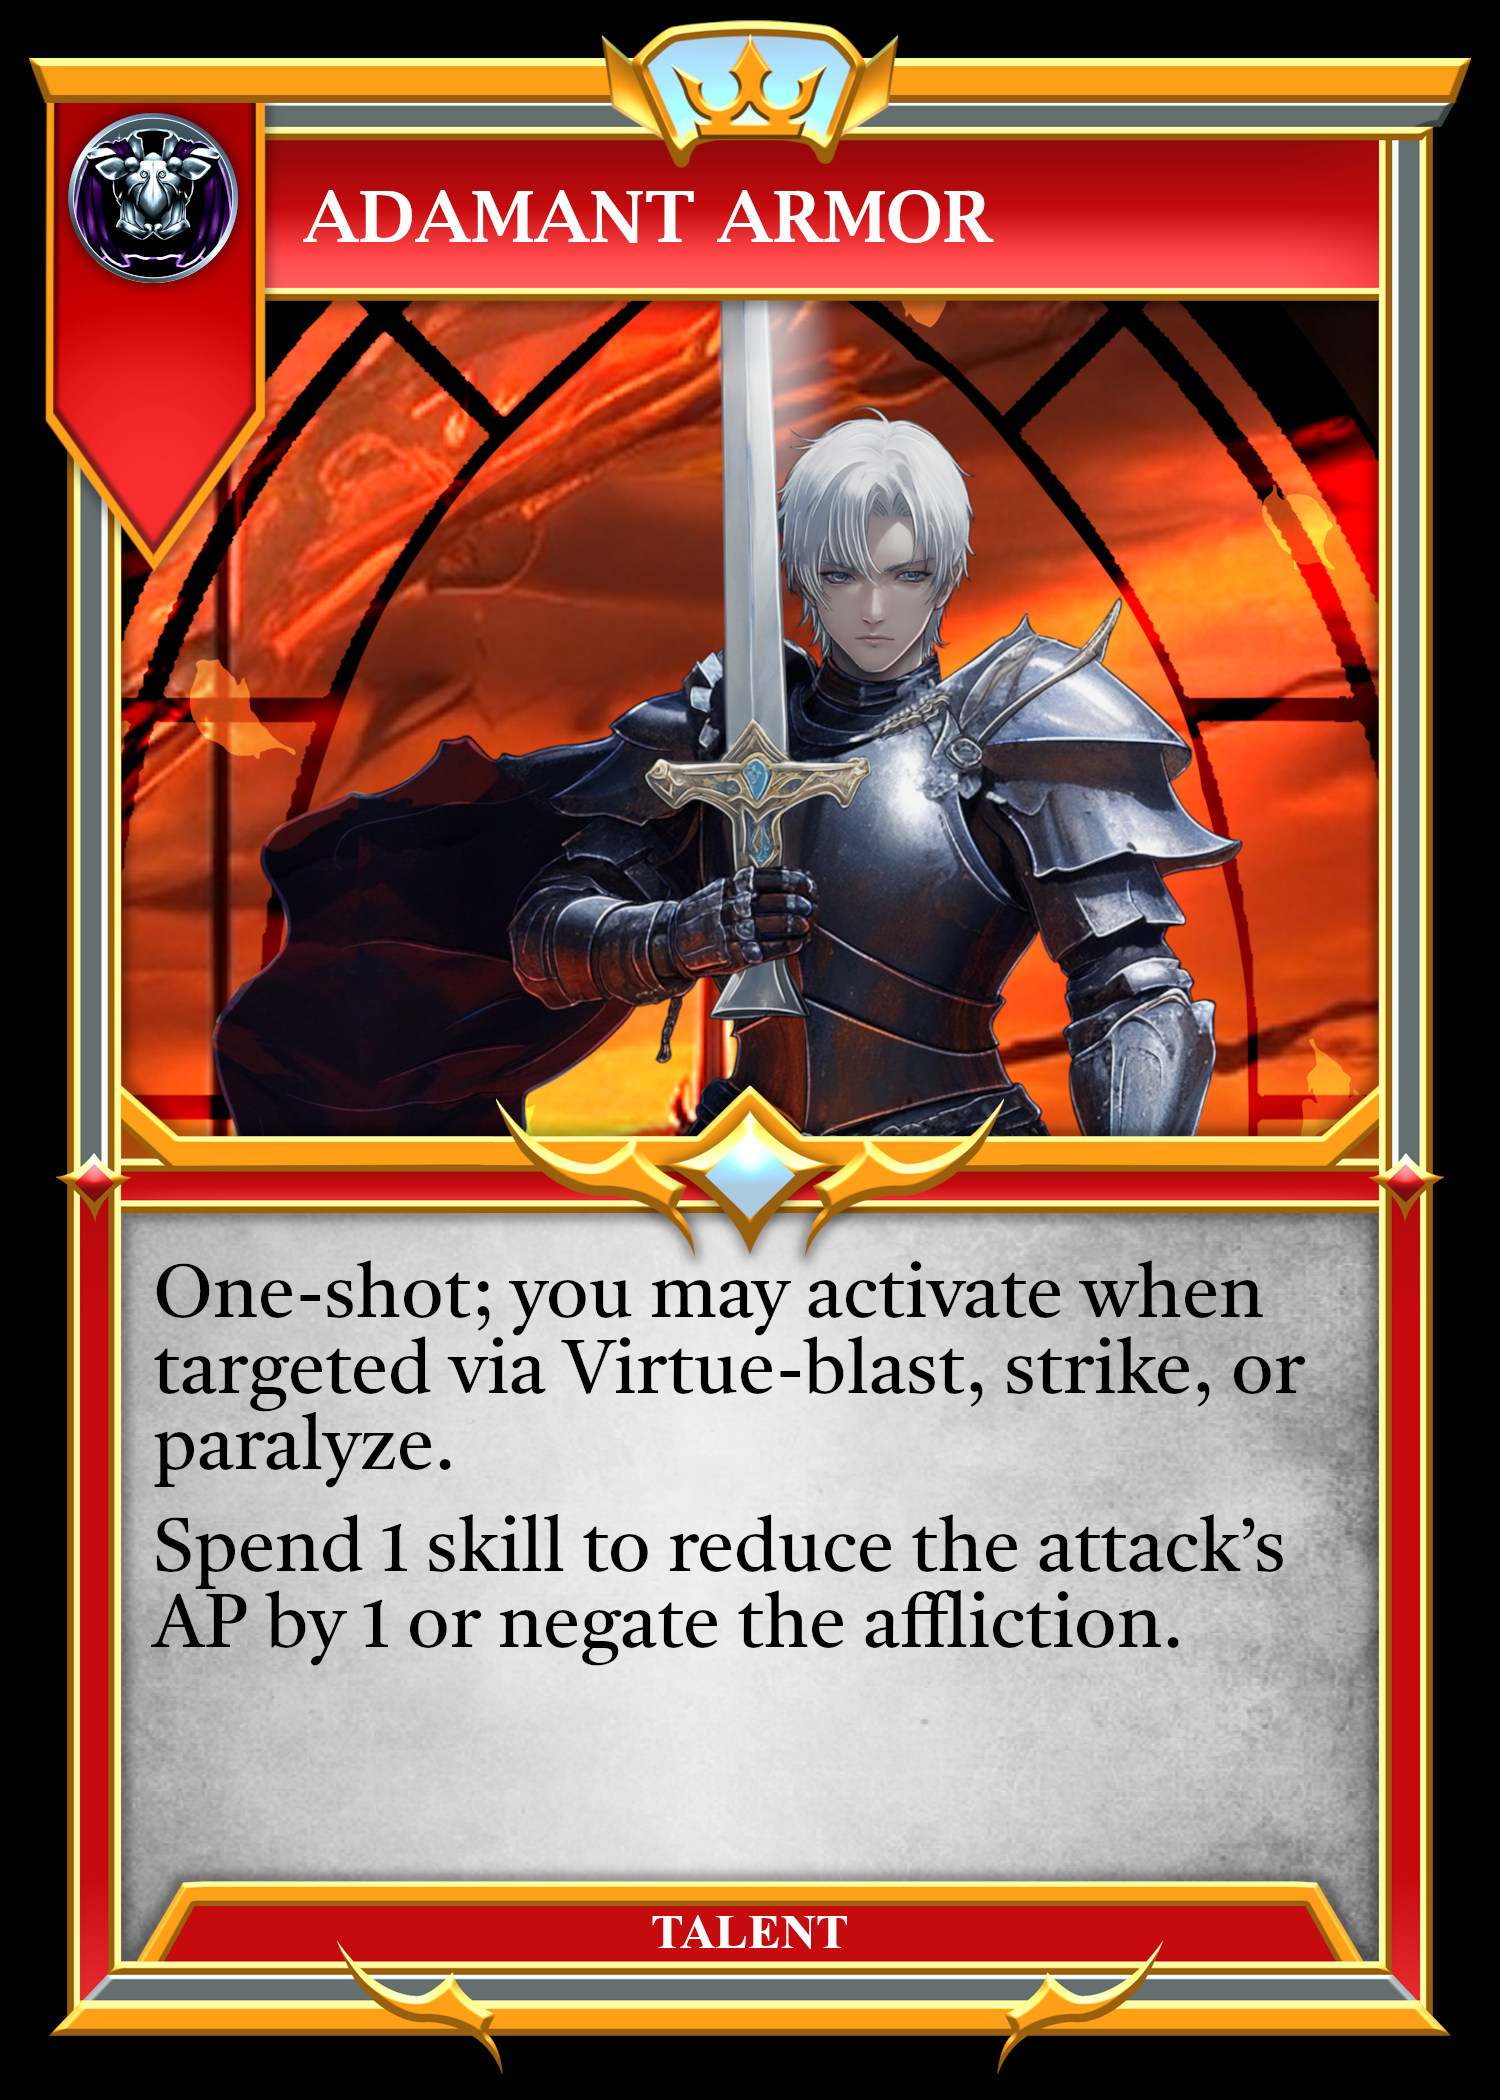
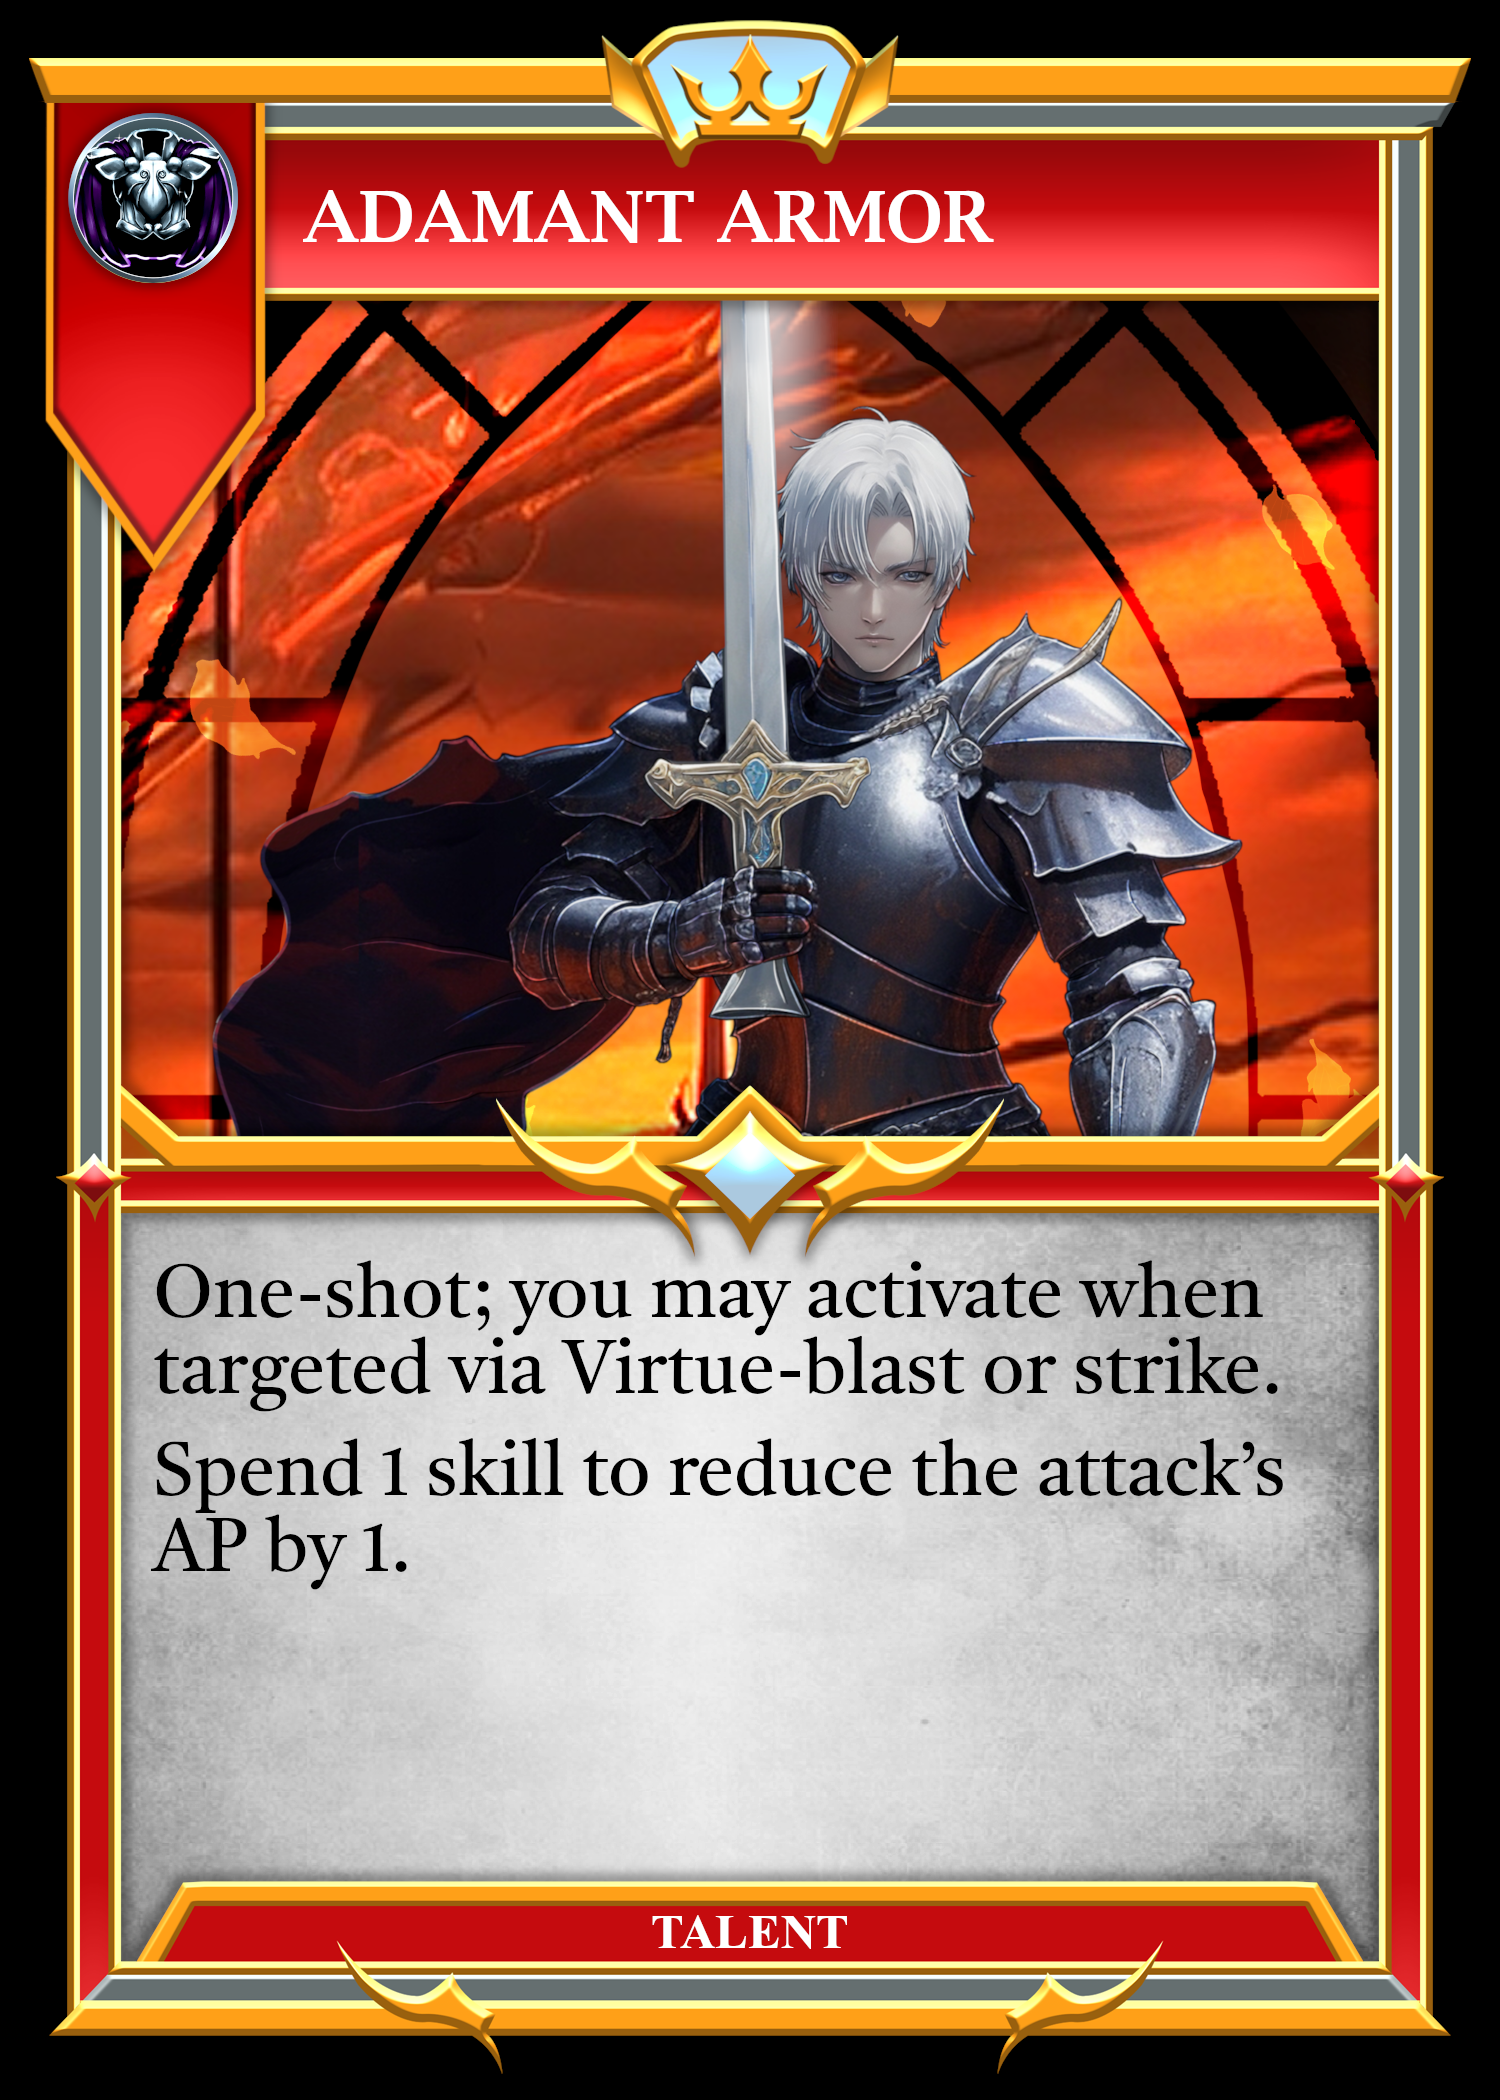
Adamant armor no longer blocks paralysis

Changed region(s): [[0.092, 0.619, 0.8587, 0.8048]]

diff --git a/src/hooks/useRecurringEffects.jsx b/src/hooks/useRecurringEffects.jsx
@@ -2316,9 +2316,8 @@ export const useRecurringEffects = () => {
     }
 
     switch (true) {
-      case victim.enhancements.ward > 0 || victim.temporary.adamantArmor:
+      case victim.enhancements.ward > 0:
         delete victim.enhancements.ward;
-        delete victim.temporary.adamantArmor;
         break;
       case victim.unitClass === "Land Scion" &&
         victim.hp > 1 &&
@@ -4209,20 +4208,21 @@ export const useRecurringEffects = () => {
       newGameState.activatingTarget.push(victim);
     }
 
-    if (triggerAdamantArmor(victim)) {
-      newGameState.currentResolution.push({
-        resolution: "Unit Talent",
-        resolution2: "Triggering Adamant Armor",
-        unit: victim,
-        details: {
-          title: "Adamant Armor",
-          message:
-            "Your Metal Scion was targeted via paralyze (1 turn). They may spend 1 skill to negate the affliction.",
-          restriction: null,
-          reason: "Adamant Armor",
-        },
-      });
-    }
+    //Adamant Armor nerfed; no longer blocks paralysis
+    // if (triggerAdamantArmor(victim)) {
+    //   newGameState.currentResolution.push({
+    //     resolution: "Unit Talent",
+    //     resolution2: "Triggering Adamant Armor",
+    //     unit: victim,
+    //     details: {
+    //       title: "Adamant Armor",
+    //       message:
+    //         "Your Metal Scion was targeted via paralyze (1 turn). They may spend 1 skill to negate the affliction.",
+    //       restriction: null,
+    //       reason: "Adamant Armor",
+    //     },
+    //   });
+    // }
 
     return newGameState;
   };
@@ -4250,20 +4250,21 @@ export const useRecurringEffects = () => {
       newGameState.activatingTarget.push(victim);
     }
 
-    if (triggerAdamantArmor(victim)) {
-      newGameState.currentResolution.push({
-        resolution: "Unit Talent",
-        resolution2: "Triggering Adamant Armor",
-        unit: victim,
-        details: {
-          title: "Adamant Armor",
-          message:
-            "Your Metal Scion was targeted via paralyze (2 turns). They may spend 1 skill to negate the affliction.",
-          restriction: null,
-          reason: "Adamant Armor",
-        },
-      });
-    }
+    //Adamant Armor nerfed; no longer blocks paralysis
+    // if (triggerAdamantArmor(victim)) {
+    //   newGameState.currentResolution.push({
+    //     resolution: "Unit Talent",
+    //     resolution2: "Triggering Adamant Armor",
+    //     unit: victim,
+    //     details: {
+    //       title: "Adamant Armor",
+    //       message:
+    //         "Your Metal Scion was targeted via paralyze (2 turns). They may spend 1 skill to negate the affliction.",
+    //       restriction: null,
+    //       reason: "Adamant Armor",
+    //     },
+    //   });
+    // }
 
     return newGameState;
   };
@@ -4948,7 +4949,6 @@ export const useRecurringEffects = () => {
       !isMuted(victim) &&
       localGameState[victim.player].skillHand.length > 0 &&
       !victim.temporary.usedAdamantArmor
-      // && ["strike", "virtue-blast", "paralyze1", "paralyze2"].includes(method)
     );
   };
 

diff --git a/src/components/modals/UnitInfo.jsx b/src/components/modals/UnitInfo.jsx
@@ -350,11 +350,9 @@ const UnitInfo = (props) => {
             <p className="unitInfo-text-desc unitInfo-text-last">
               ⬩
               <em>
-                You may activate when targeted via Virtue-blast, strike, or
-                paralyze.
+                You may activate when targeted via Virtue-blast or strike.
               </em>{" "}
-              Spend 1 skill to reduce the attack’s AP by 1 or negate the
-              affliction.
+              Spend 1 skill to reduce the attack’s AP by 1.
             </p>
 
             <p className="unitInfo-text-heading2">3. Penetrator</p>
